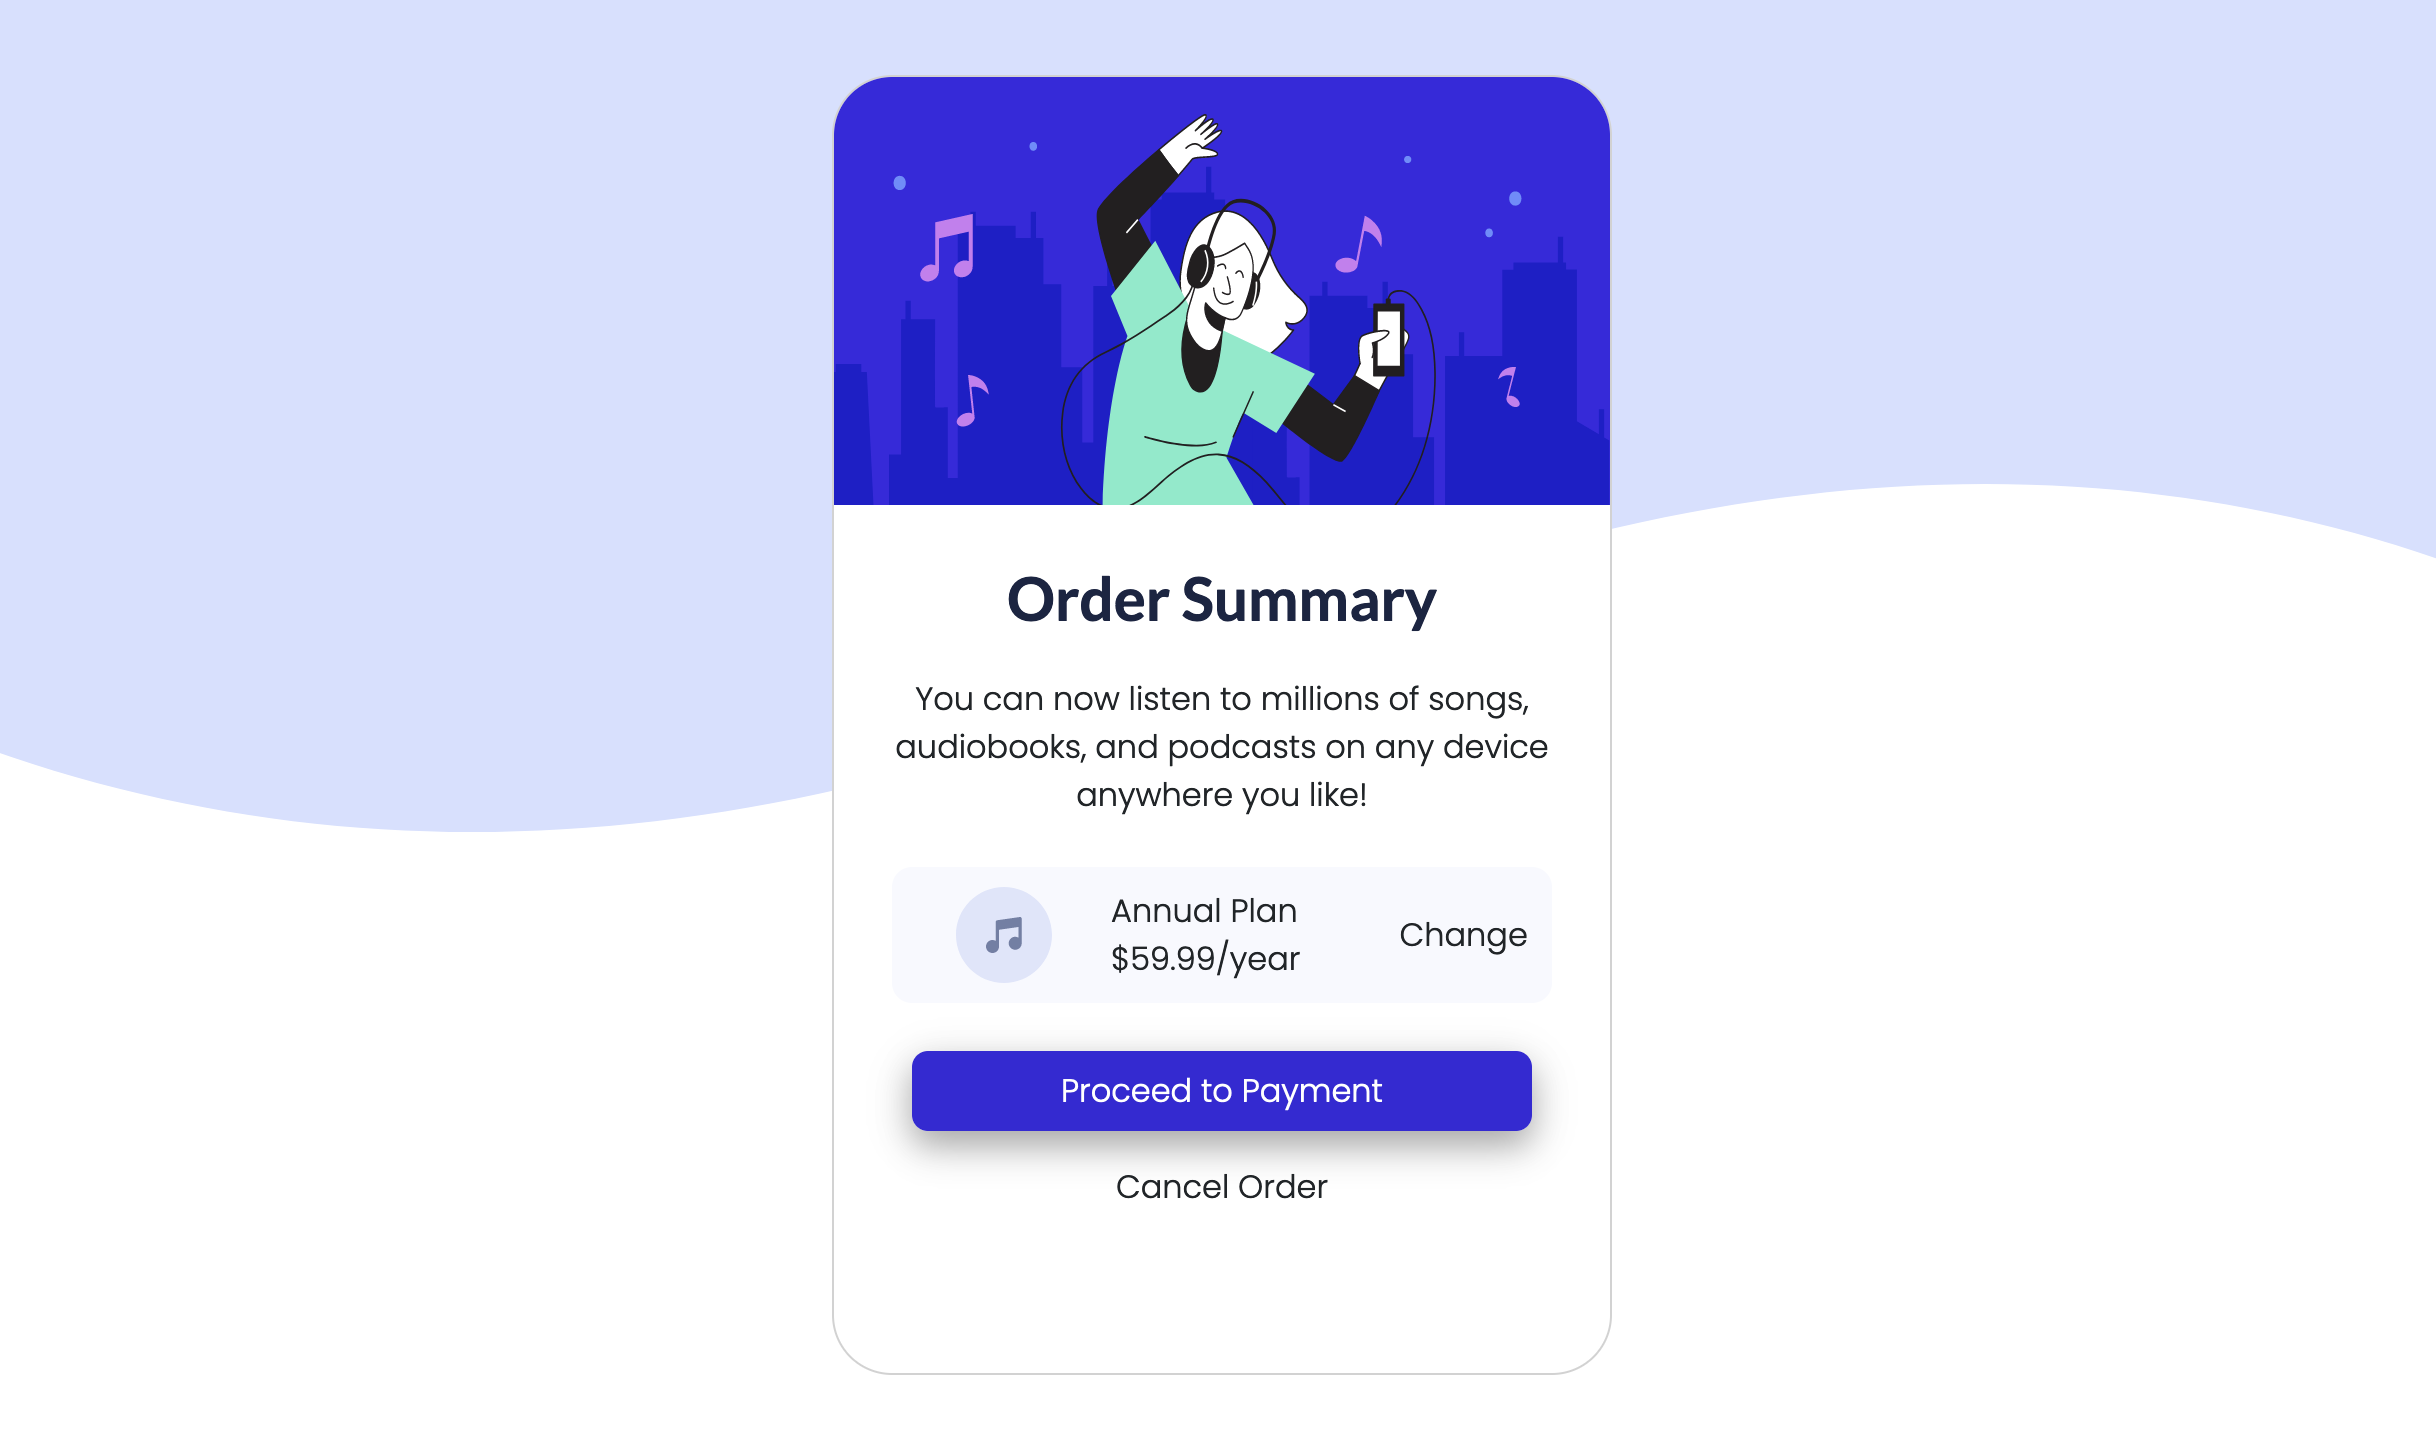
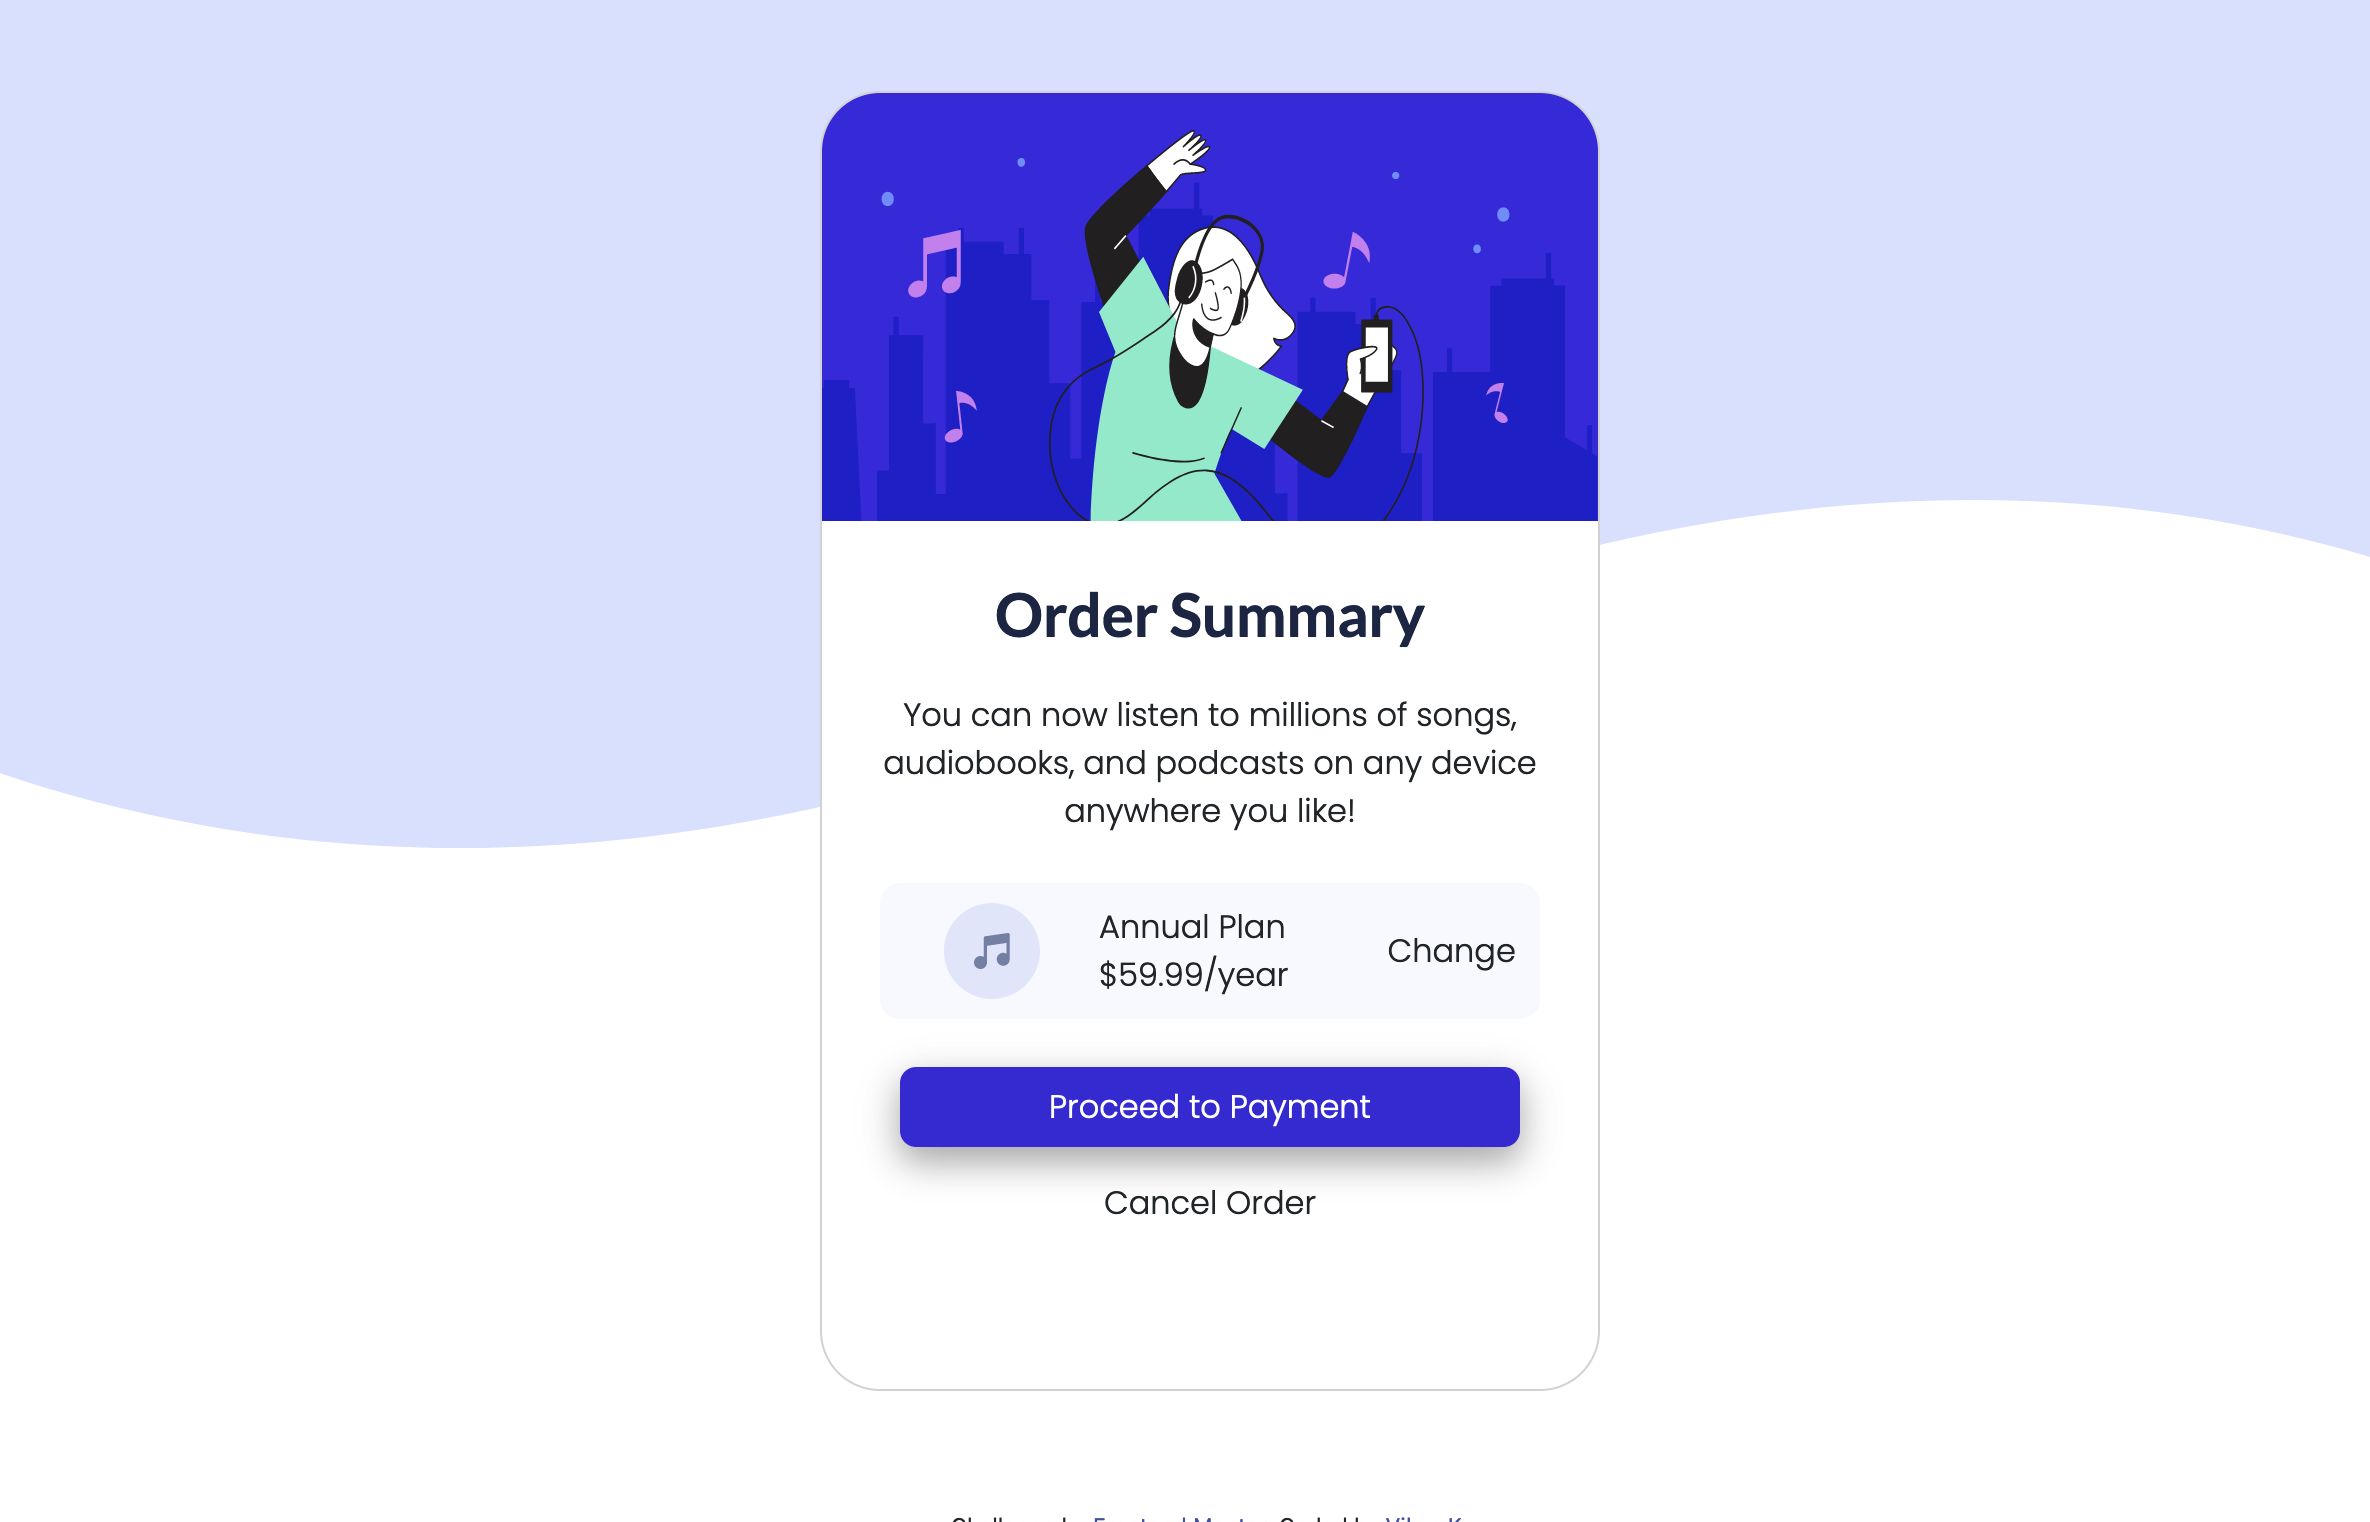
Finished Order Summary

diff --git a/src/Components/OrderSummary/OrderSummary.jsx b/src/Components/OrderSummary/OrderSummary.jsx
@@ -1,45 +1,46 @@
-import React from 'react'
-import './OrderSummary.scss'
-
+import React from 'react';
+import './OrderSummary.scss';
+import image from './images/illustration-hero.svg';
+import music_icon from "./images/icon-music.svg";
 export default function OrderSummary() {
   return (
-    <div className='root1'>
-        <div class="flex-container-1">
-            <div class="card">
-            <img class="card-img-top" src="./images/illustration-hero.svg" alt="Card image cap" />
-            <div class="mt-4 mb-2">
-                <div class="card-title">Order Summary</div>
+    <div className='order-summary'>
+        <div className="flex-container-1">
+            <div className="card">
+            <img src={image} className="card-img-top" alt="Card cap" />
+            <div className="mt-4 mb-2">
+                <div className="card-title">Order Summary</div>
             </div>
-            <div class="card-text">
+            <div className="card-text">
                 You can now listen to millions of songs, audiobooks, and podcasts on any device anywhere you like!
             </div>
-            <div class="flex justify-content-center">
-                <div class="row plan-div mt-4 flex-container-3">
-                <div class="col-3">
-                    <img src="./images/icon-music.svg" class='img-fluid' alt="" />
+            <div className="flex justify-content-center">
+                <div className="row plan-div mt-4 flex-container-3">
+                <div className="col-3">
+                    <img src={music_icon} className='img-fluid' alt="" />
                 </div>
-                <div class="col-sm-5 col-6 text-left">
+                <div className="col-sm-5 col-6 text-left">
                     Annual Plan <br/> $59.99/year
                 </div>
-                <div class="col-sm-4 col-3 text-right small-text">
+                <div className="col-sm-4 col-3 text-right small-text">
                     Change
                 </div>
                 </div>
             </div>
             
-            <div class="flex-container-2 mt-4">
-                <button class="button">Proceed to Payment</button>
+            <div className="flex-container-2 mt-4">
+                <button className="button">Proceed to Payment</button>
             </div>
-            <div class="mt-3">
-                <a href="#">Cancel Order</a>
+            <div className="mt-3">
+                <a href="/">Cancel Order</a>
             </div>
             </div>
         </div>
 
         
-        <div class="attribution">
-            Challenge by <a href="https://www.frontendmentor.io?ref=challenge" target="_blank">Frontend Mentor</a>. 
-            Coded by <a href="#">Vikas K</a>.
+        <div className="attribution">
+            Challenge by <a href="https://www.frontendmentor.io?ref=challenge" rel="noreferrer" target="_blank">Frontend Mentor</a>. 
+            Coded by <a href="https://github.com/LieutPaul">Vikas K</a>.
         </div>
     </div>
   )

diff --git a/src/index.js b/src/index.js
@@ -3,19 +3,22 @@ import ReactDOM from 'react-dom/client';
 import {BrowserRouter as Router, Routes, Route} from 'react-router-dom';
 import OrderSummary from './Components/OrderSummary/OrderSummary';
 import 'bootstrap/dist/css/bootstrap.min.css'
+import './index.css'
 
 const root = ReactDOM.createRoot(document.getElementById('root'));
 root.render(
     <Router>
       <Routes>
+
         <Route path="/" element=
         {
-        <div>
+        <div style={{"padding":"20px"}}>
           <a href="/order-summary">/order-summary</a> : Order Summary Page
         </div>
         } 
         />
         <Route path="/order-summary" element={<OrderSummary/>}/>
+      
       </Routes>
     </Router>
 );

diff --git a/public/index.html b/public/index.html
@@ -9,8 +9,10 @@
       name="description"
       content="Web site created using create-react-app"
     />
-    <link rel="apple-touch-icon" href="%PUBLIC_URL%/logo192.png" />
-    <link rel="manifest" href="%PUBLIC_URL%/manifest.json" />
+    <link rel="preconnect" href="https://fonts.googleapis.com">
+    <link rel="preconnect" href="https://fonts.gstatic.com" crossorigin>
+    <link href="https://fonts.googleapis.com/css2?family=Poppins:wght@300&display=swap" rel="stylesheet"> 
+    <link href="https://fonts.googleapis.com/css2?family=Lato:wght@700&display=swap" rel="stylesheet"> 
     <title>Frontend Mentor</title>
   </head>
   <body>

diff --git a/src/Components/OrderSummary/OrderSummary.scss b/src/Components/OrderSummary/OrderSummary.scss
@@ -7,17 +7,18 @@
     color: hsl(228, 45%, 44%); 
 }
 
-.root1{
-    position: fixed; 
-    top: 0px; 
-    left: 0px; 
-    width: 100%; 
-    height: 100%; 
+.order-summary{
     background-image: url("./images/pattern-background-desktop.svg");
+    height: 100%; 
+    background-position: center;
+    background-repeat: no-repeat;
+    background-size: cover;
 }
+
 
 @media only screen and (max-width : 576px) {
     .card{
+        border-top:30px !important;
         width:350px !important;
         height: 650px !important;
         border-radius: 30px !important;

diff --git a/tailwind.config.js b/tailwind.config.js
@@ -1,0 +1,10 @@
+/** @type {import('tailwindcss').Config} */
+module.exports = {
+  content: [
+    "./src/**/*.{js,jsx,ts,tsx}",
+  ],
+  theme: {
+    extend: {},
+  },
+  plugins: [],
+}

diff --git a/src/index.css b/src/index.css
@@ -1,0 +1,8 @@
+@tailwind base;
+@tailwind components;
+@tailwind utilities;
+
+body, html {
+    height: 100%;
+    margin: 0;
+}

diff --git a/src/Components/OrderSummary/README.md b/src/Components/OrderSummary/README.md
@@ -1,70 +1,50 @@
-# Getting Started with Create React App
+# Frontend Mentor - Order summary card solution
 
-This project was bootstrapped with [Create React App](https://github.com/facebook/create-react-app).
+This is a solution to the [Order summary card challenge on Frontend Mentor](https://www.frontendmentor.io/challenges/order-summary-component-QlPmajDUj). Frontend Mentor challenges help you improve your coding skills by building realistic projects. 
 
-## Available Scripts
+## Table of contents
 
-In the project directory, you can run:
+- [Overview](#overview)
+  - [The challenge](#the-challenge)
+  - [Screenshot](#screenshot)
+  - [Links](#links)
+- [My process](#my-process)
+  - [Built with](#built-with)
+  - [Useful resources](#useful-resources)
+- [Author](#author)
 
-### `npm start`
+## Overview
 
-Runs the app in the development mode.\
-Open [http://localhost:3000](http://localhost:3000) to view it in your browser.
+### The challenge
 
-The page will reload when you make changes.\
-You may also see any lint errors in the console.
+Users should be able to:
 
-### `npm test`
+- See hover states for interactive elements
 
-Launches the test runner in the interactive watch mode.\
-See the section about [running tests](https://facebook.github.io/create-react-app/docs/running-tests) for more information.
+### Screenshot
 
-### `npm run build`
+![](./screenshot.jpg)
 
-Builds the app for production to the `build` folder.\
-It correctly bundles React in production mode and optimizes the build for the best performance.
+### Links
 
-The build is minified and the filenames include the hashes.\
-Your app is ready to be deployed!
+- Solution URL: [Add solution URL here](https://your-solution-url.com)
+- Live Site URL: [Add live site URL here](https://vikas-frontend-mentor.netlify.app/)
 
-See the section about [deployment](https://facebook.github.io/create-react-app/docs/deployment) for more information.
+## My process
 
-### `npm run eject`
+### Built with
 
-**Note: this is a one-way operation. Once you `eject`, you can't go back!**
+- CSS custom properties
+- Flexbox
+- Tailwind CSS
+- Bootstrap grid System
 
-If you aren't satisfied with the build tool and configuration choices, you can `eject` at any time. This command will remove the single build dependency from your project.
+### Useful resources
 
-Instead, it will copy all the configuration files and the transitive dependencies (webpack, Babel, ESLint, etc) right into your project so you have full control over them. All of the commands except `eject` will still work, but they will point to the copied scripts so you can tweak them. At this point you're on your own.
+- [Tailwind CSS](https://tailwindcss.com/) - This helped me in applying certain flexbox and text aligning styles without defining separate classes.
+- [Bootstrap](https://getbootstrap.com/docs/5.0/layout/containers/) - This helped me in understanding the grid system which helped in creating the responsive mobile design.
 
-You don't have to ever use `eject`. The curated feature set is suitable for small and middle deployments, and you shouldn't feel obligated to use this feature. However we understand that this tool wouldn't be useful if you couldn't customize it when you are ready for it.
+## Author
 
-## Learn More
-
-You can learn more in the [Create React App documentation](https://facebook.github.io/create-react-app/docs/getting-started).
-
-To learn React, check out the [React documentation](https://reactjs.org/).
-
-### Code Splitting
-
-This section has moved here: [https://facebook.github.io/create-react-app/docs/code-splitting](https://facebook.github.io/create-react-app/docs/code-splitting)
-
-### Analyzing the Bundle Size
-
-This section has moved here: [https://facebook.github.io/create-react-app/docs/analyzing-the-bundle-size](https://facebook.github.io/create-react-app/docs/analyzing-the-bundle-size)
-
-### Making a Progressive Web App
-
-This section has moved here: [https://facebook.github.io/create-react-app/docs/making-a-progressive-web-app](https://facebook.github.io/create-react-app/docs/making-a-progressive-web-app)
-
-### Advanced Configuration
-
-This section has moved here: [https://facebook.github.io/create-react-app/docs/advanced-configuration](https://facebook.github.io/create-react-app/docs/advanced-configuration)
-
-### Deployment
-
-This section has moved here: [https://facebook.github.io/create-react-app/docs/deployment](https://facebook.github.io/create-react-app/docs/deployment)
-
-### `npm run build` fails to minify
-
-This section has moved here: [https://facebook.github.io/create-react-app/docs/troubleshooting#npm-run-build-fails-to-minify](https://facebook.github.io/create-react-app/docs/troubleshooting#npm-run-build-fails-to-minify)
+- Frontend Mentor - [@LieutPaul](https://www.frontendmentor.io/profile/LieutPaul)
+- Twitter - [@VKas_17](https://twitter.com/VKas_17)
